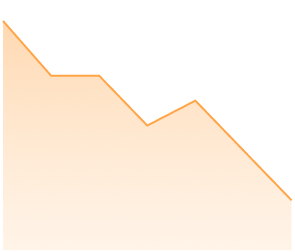
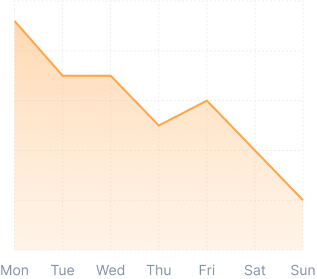
Added weight data section

Changed region(s): [[0.0, 0.0556, 1.0, 1.0]]

diff --git a/fitness_platform/src/components/progress/WeightData.jsx b/fitness_platform/src/components/progress/WeightData.jsx
@@ -1,7 +1,39 @@
+import weightChart from "../../assets/weight-data.png";
+
 const WeightData = () => {
   return (
-    <div className='rounded-[17px] border mt-4 h-144.75 p-6 shadow bg-white'>WeightData</div>
-  )
-}
+    <div className="mt-4 flex h-144.75 flex-col justify-between rounded-[17px] bg-white p-6 font-medium shadow">
+      <div>
+        <p className="mb-3 text-[20px]">Weight Data</p>
 
-export default WeightData
+        {/* Weight data */}
+        <div className="flex items-center justify-between border-b border-[#D9D9D9] py-3">
+          <p>Current Weight</p>
+          <p>
+            72 <span className="text-sm text-[#9D9D9D]">kg</span>
+          </p>
+        </div>
+
+        <div className="flex items-center justify-between border-b border-[#D9D9D9] py-3">
+          <p>Weight Goal</p>
+          <p>
+            65 <span className="text-sm text-[#9D9D9D]">kg</span>
+          </p>
+        </div>
+        <div className="flex items-center justify-between border-b border-[#D9D9D9] py-3">
+          <p>Progress</p>
+          <p>
+            18 <span className="text-sm text-[#9D9D9D]">%</span>
+          </p>
+        </div>
+      </div>
+
+      {/* Chart */}
+      <div className="p-4">
+        <img src={weightChart} alt="weight data chart" />
+      </div>
+    </div>
+  );
+};
+
+export default WeightData;

diff --git a/fitness_platform/src/pages/Progress.jsx b/fitness_platform/src/pages/Progress.jsx
@@ -9,9 +9,9 @@ import WorkoutGoals from "../components/progress/WorkoutGoals";
 
 const Progress = () => {
   return (
-    <div>
-      <ProgressHeader/>
-      <div className="grid grid-cols-1 md:grid-cols-[400.25px_400.25px_1fr] gap-4">
+    <div className="bg-white px-6">
+      <ProgressHeader />
+      <div className="grid grid-cols-1 gap-4 md:grid-cols-[400.25px_400.25px_1fr]">
         {/* first grid */}
         <div className="">
           <HealthScore />

diff --git a/fitness_platform/src/components/progress/ProgressHeader.jsx b/fitness_platform/src/components/progress/ProgressHeader.jsx
@@ -1,6 +1,6 @@
 const ProgressHeader = () => {
   return (
-    <div className="mt-4 flex h-14 items-center justify-between gap-4 p-6">
+    <div className="mt-4 flex h-14 items-center justify-between gap-4 py-6">
       {/* Left side */}
       <div className="flex items-center gap-6">
         <p className="text-lg font-medium">Workout Time</p>
